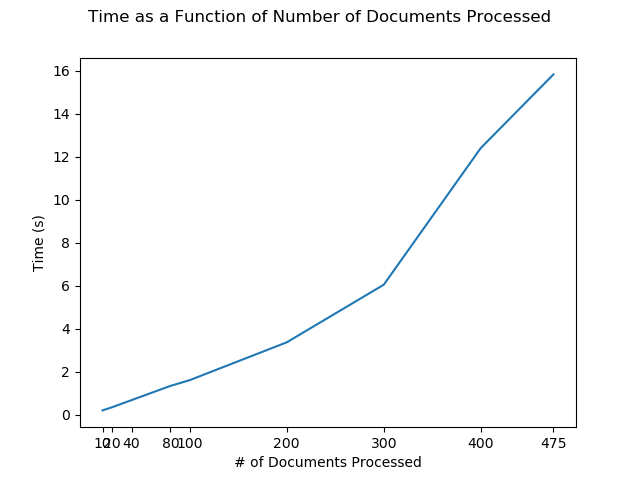
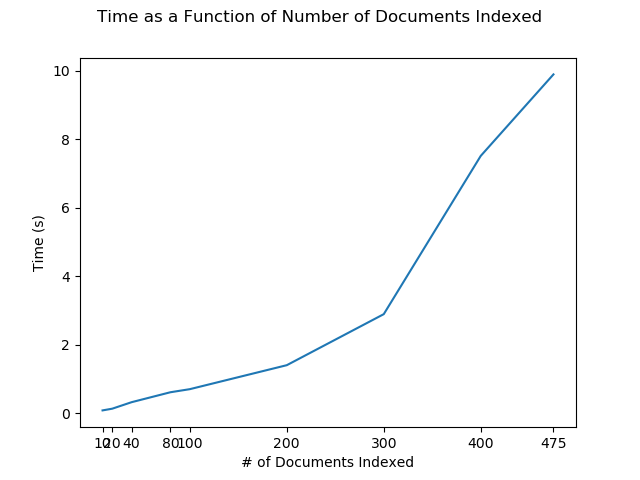
Program now creates a graph of time vs the number of documents indexed.

diff --git a/index.py b/index.py
@@ -69,7 +69,7 @@ def removeLowFreq(postings_dict, threshold):
     return postings_dict
 
 #create postings dictionary, outputs postings to a file
-def createIndex(out_path, postings_dict, file_lengths):
+def createIndex(out_path, postings_dict, file_lengths, time_axis, docs_axis):
 
     #counter for the line being written to the postings file
     line_num = 0
@@ -87,13 +87,21 @@ def createIndex(out_path, postings_dict, file_lengths):
 
     for token in postings_dict:
 
+        file_num = 0
+
         #set the value of each document in the token's dictionary to the token's tfidf for that document
         for filename in postings_dict[token]:
+
+            start = time.time()
 
             #tf*idf = (tf of word in document/length of document) * log(number of documents/number of docs containting word)
             tfidf = (postings_dict[token][filename]) * math.log(len(file_lengths)/len(postings_dict[token]))
             tfidf = round(tfidf, 5)
             postings_dict[token][filename] = tfidf
+            
+            file_num += 1
+            if file_num in docs_axis:
+                time_axis[docs_axis.index(file_num)] += round(time.time() - start)
 
         #in the index, set the number of documents the token occurs in
         index[token][0] = len(postings_dict[token])
@@ -101,10 +109,19 @@ def createIndex(out_path, postings_dict, file_lengths):
         #in the index, set the location of the first record for the token in the postings file 
         index[token][1] = line_num
 
+        file_num = 0
+
         #write the filename and weight for that file of each token to postings file
         for filename, weight in postings_dict[token].items():
+
+            start = time.time()
+
             postings_file.write(filename + ", " + str(weight) + "\n")
             line_num += 1
+
+            file_num += 1
+            if file_num in docs_axis:
+                time_axis[docs_axis.index(file_num)] += round(time.time() - start)
 
         #write the index dictionary contents to the index file
         index_file.write(token + "\n" + str(index[token][0]) + "\n" + str(index[token][1]) + "\n")
@@ -112,7 +129,22 @@ def createIndex(out_path, postings_dict, file_lengths):
     postings_file.close()
     index_file.close()
 
+def graphTimeVSDocs(time_axis, docs_axis):
+
+    fig = plt.figure()
+    #line graph - time vs num docs processed
+    plt.xticks(docs_axis, docs_axis)
+    plt.plot(docs_axis, time_axis)
+    fig.suptitle("Time as a Function of Number of Documents Indexed")
+    plt.xlabel("# of Documents Indexed")
+    plt.ylabel("Time (s)")
+    plt.savefig("time_vs_docs.png")
+
+
 def main(argv):
+
+    docs_axis = [10, 20, 40, 80, 100, 200, 300, 400, 475]
+    time_axis = []
 
     #statistics
     NUM_DOCS_PROCESSED = 0
@@ -126,7 +158,7 @@ def main(argv):
     in_path = sys.argv[1]
     out_path = sys.argv[2]
 
-    #start = time.time()
+    start = time.time()
 
     #create output directory
     os.makedirs(out_path)
@@ -160,13 +192,18 @@ def main(argv):
 
         NUM_DOCS_PROCESSED += 1
 
+        if NUM_DOCS_PROCESSED in docs_axis:
+            time_axis.append(round(time.time() - start, 2))
 
     #throw out low frequency tokens
     threshold = 1
     postings_dict = removeLowFreq(postings_dict, threshold)
 
-    createIndex(out_path, postings_dict, file_lengths)
+    createIndex(out_path, postings_dict, file_lengths, time_axis, docs_axis)
+
+    graphTimeVSDocs(time_axis, docs_axis)
     
+    print("The program took " + str(time.time() - start) + " seconds to complete.")
     print(str(NUM_TOKENS) + " distinct tokens found.")
 
 if __name__ == "__main__":
